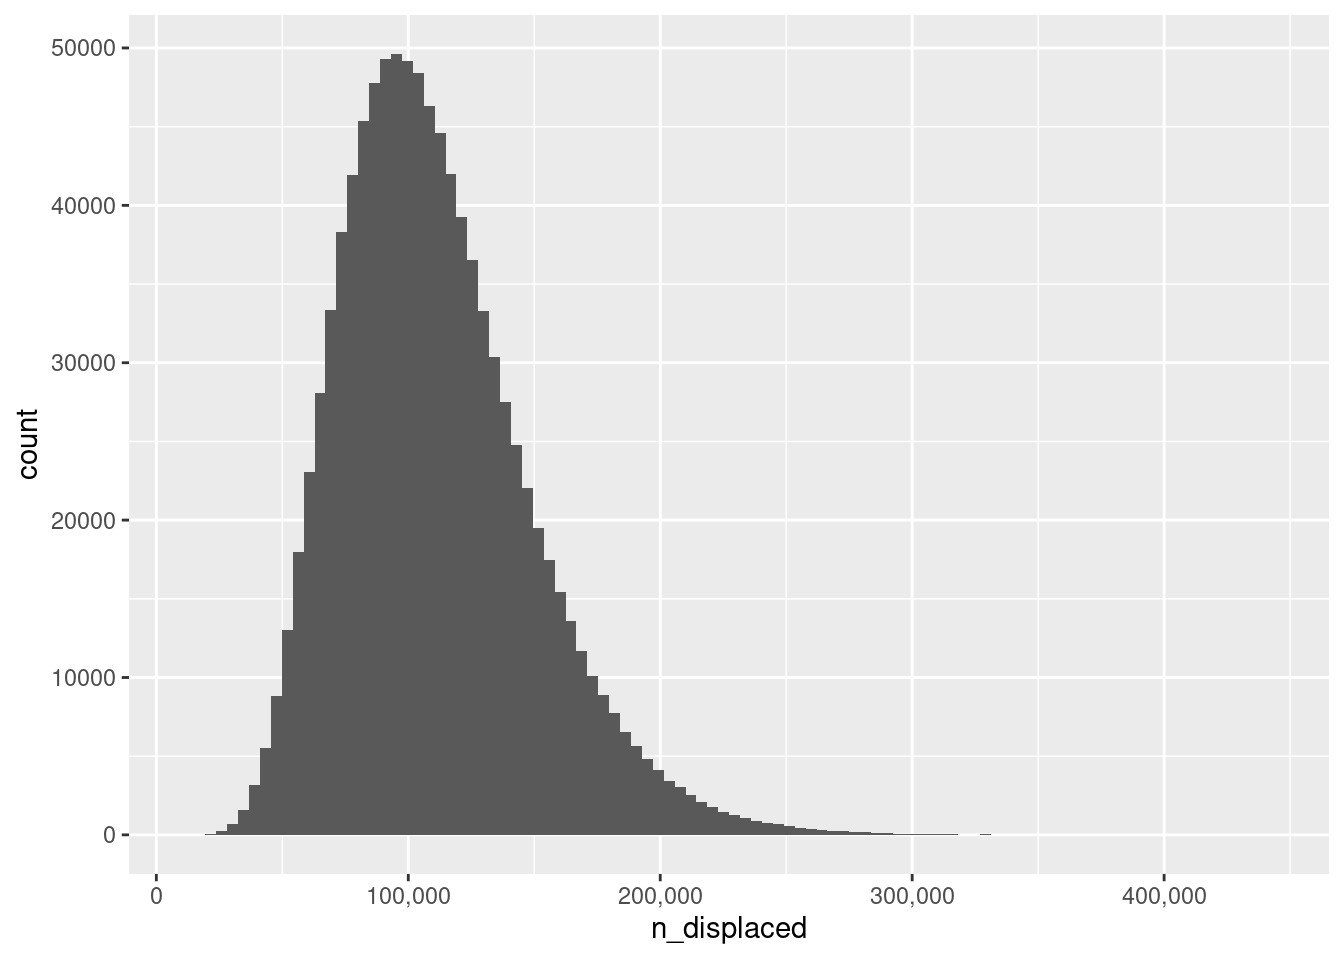
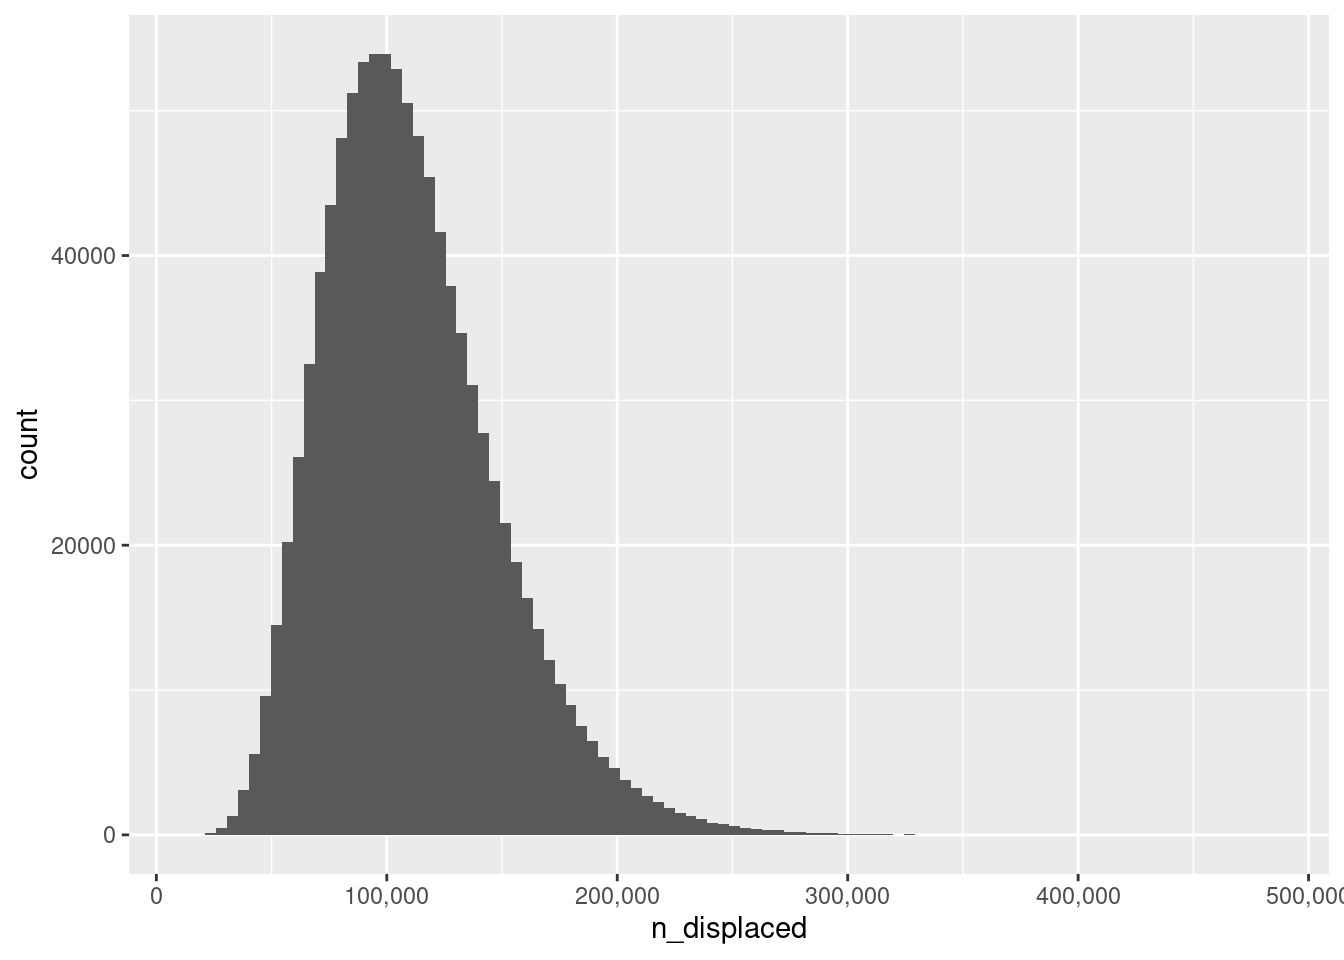
Fix silly brain fade (#106)
* fix brain fade

* uses better image name and adds alt-text

diff --git a/_site/posts/2023-06-15_dark-times/index.html b/_site/posts/2023-06-15_dark-times/index.html
@@ -264,16 +264,25 @@ n &amp; \sim &amp; \mbox{Binomial}(\theta, N = 166)
 <section id="what-proportion-of-the-us-population-is-transgender" class="level2">
 <h2 class="anchored" data-anchor-id="what-proportion-of-the-us-population-is-transgender">What proportion of the US population is transgender?</h2>
 <p>For this we can use a relatively recent <a href="https://williamsinstitute.law.ucla.edu/publications/trans-adults-united-states">survey by the Williams Institute</a>. The webpage provides point estimates in a digestible form, but Tables 4 and A4 of the associated <a href="https://williamsinstitute.law.ucla.edu/wp-content/uploads/Trans-Pop-Update-Jun-2022.pdf">pdf report</a> includes a 95% credible interval that suggests the adult transgender population in the United States (where again age 18+ is used as the cutoff) is somewhere between 816,644 and 1,964,330 people. Or, to express it as a percentage, somewhere between 0.32% and 0.77% of the US adult population of 255,201,250 persons identifies as transgender (the point estimate is 0.52%).</p>
-<p>In my ideal world I’d have access to the actual posterior distribution from the Williams Institute modelling, but alas I do not. However, since this is intended as a back-of-the-envelope style calculation, I’ll again try to make some sensible assumptions. In most situations I’d be willing to assume that the posterior is approximately normal, but that doesn’t work here because the percentages are too close to zero. Instead what I’ll do is use a beta distribution and choose parameters that ensure the relevant quantiles approximately mirror the numbers from the Williams Institute study:</p>
+<p>In my ideal world I’d have access to the actual posterior distribution from the Williams Institute modelling, but alas I do not. However, since this is intended as a back-of-the-envelope style calculation, I’ll again try to make some sensible assumptions. In most situations I’d be willing to assume that the posterior is approximately normal, but that doesn’t work here because the percentages are too close to zero. Instead what I’ll do is use a beta distribution and choose parameters that ensure the relevant quantiles approximately mirror the numbers from the Williams Institute study:<a href="#fn3" class="footnote-ref" id="fnref3" role="doc-noteref"><sup>3</sup></a></p>
 <div class="cell">
-<div class="sourceCode cell-code" id="cb3"><pre class="sourceCode r code-with-copy"><code class="sourceCode r"><span id="cb3-1"><a href="#cb3-1" aria-hidden="true" tabindex="-1"></a><span class="fu">quantile</span>(</span>
-<span id="cb3-2"><a href="#cb3-2" aria-hidden="true" tabindex="-1"></a>  <span class="at">x =</span> <span class="fu">rbeta</span>(<span class="dv">100000</span>, <span class="at">shape1 =</span> <span class="fl">20.3</span>, <span class="at">shape2 =</span> <span class="dv">3880</span>), </span>
-<span id="cb3-3"><a href="#cb3-3" aria-hidden="true" tabindex="-1"></a>  <span class="at">probs =</span> <span class="fu">c</span>(.<span class="dv">025</span>, .<span class="dv">5</span>, .<span class="dv">975</span>)</span>
-<span id="cb3-4"><a href="#cb3-4" aria-hidden="true" tabindex="-1"></a>)</span></code><button title="Copy to Clipboard" class="code-copy-button"><i class="bi"></i></button></pre></div>
+<div class="sourceCode cell-code" id="cb3"><pre class="sourceCode r code-with-copy"><code class="sourceCode r"><span id="cb3-1"><a href="#cb3-1" aria-hidden="true" tabindex="-1"></a><span class="fu">qbeta</span>(<span class="fu">c</span>(.<span class="dv">025</span>, .<span class="dv">5</span>, .<span class="dv">975</span>), <span class="fl">20.65</span>, <span class="fl">3922.84</span>)</span></code><button title="Copy to Clipboard" class="code-copy-button"><i class="bi"></i></button></pre></div>
 <div class="cell-output cell-output-stdout">
-<pre><code>       2.5%         50%       97.5% 
-0.003193342 0.005125918 0.007695911 </code></pre>
+<pre><code>[1] 0.003230431 0.005153068 0.007716206</code></pre>
 </div>
+</div>
+<div class="cell">
+<details>
+<summary>Parameter estimation code</summary>
+<div class="sourceCode cell-code" id="cb5"><pre class="sourceCode r code-with-copy"><code class="sourceCode r"><span id="cb5-1"><a href="#cb5-1" aria-hidden="true" tabindex="-1"></a><span class="fu">optim</span>(</span>
+<span id="cb5-2"><a href="#cb5-2" aria-hidden="true" tabindex="-1"></a>  <span class="at">par =</span> <span class="fu">c</span>(<span class="fl">20.3</span>, <span class="dv">3800</span>), <span class="co"># the values I hand tuned originally</span></span>
+<span id="cb5-3"><a href="#cb5-3" aria-hidden="true" tabindex="-1"></a>  <span class="at">fn =</span> \(par) {</span>
+<span id="cb5-4"><a href="#cb5-4" aria-hidden="true" tabindex="-1"></a>    prd <span class="ot">&lt;-</span> <span class="fu">qbeta</span>(<span class="fu">c</span>(.<span class="dv">025</span>, .<span class="dv">5</span>, .<span class="dv">975</span>), par[<span class="dv">1</span>], par[<span class="dv">2</span>])</span>
+<span id="cb5-5"><a href="#cb5-5" aria-hidden="true" tabindex="-1"></a>    obs <span class="ot">&lt;-</span> <span class="fu">c</span>(.<span class="dv">0032</span>, .<span class="dv">0052</span>, .<span class="dv">0077</span>)</span>
+<span id="cb5-6"><a href="#cb5-6" aria-hidden="true" tabindex="-1"></a>    <span class="fu">sum</span>((obs <span class="sc">-</span> prd)<span class="sc">^</span><span class="dv">2</span>)</span>
+<span id="cb5-7"><a href="#cb5-7" aria-hidden="true" tabindex="-1"></a>  }</span>
+<span id="cb5-8"><a href="#cb5-8" aria-hidden="true" tabindex="-1"></a>)</span></code><button title="Copy to Clipboard" class="code-copy-button"><i class="bi"></i></button></pre></div>
+</details>
 </div>
 <p>It’s awfully crude, but it works: the 95% equal-tail intervals that you’d get if this were the real posterior match the numbers reported by the Williams Institute, the distribution is bounded appropriately, and the point estimate (in this case the median) is pretty decent too. Good enough for the back of an envelope calculation I’d say.</p>
 </section>
@@ -281,40 +290,40 @@ n &amp; \sim &amp; \mbox{Binomial}(\theta, N = 166)
 <h2 class="anchored" data-anchor-id="estimating-the-number-of-displaced-persons">Estimating the number of displaced persons</h2>
 <p>Okay, now I have some (slightly crude) posterior densities to express what we know about (a) the proportion of adults in the United States are transgender, and (b) the proportion of transgender adults in the United States that have been displaced courtesy of the anti-trans legislation sweeping the nation. Again using the numbers from the Williams Institute study as the basis for the calculation, I’ll assume that the adult population of the US is approximately 255,201,250 persons. Now, I personally don’t know how to convolve two beta distributions analytically, but it’s not even slightly hard to do numerically:</p>
 <div class="cell">
-<div class="sourceCode cell-code" id="cb5"><pre class="sourceCode r code-with-copy"><code class="sourceCode r"><span id="cb5-1"><a href="#cb5-1" aria-hidden="true" tabindex="-1"></a>sim <span class="ot">&lt;-</span> tibble<span class="sc">::</span><span class="fu">tibble</span>(</span>
-<span id="cb5-2"><a href="#cb5-2" aria-hidden="true" tabindex="-1"></a> <span class="at">n_adults =</span> <span class="dv">255201250</span>,</span>
-<span id="cb5-3"><a href="#cb5-3" aria-hidden="true" tabindex="-1"></a> <span class="at">prop_trans =</span> <span class="fu">rbeta</span>(<span class="dv">1000000</span>, <span class="at">shape1 =</span> <span class="fl">20.3</span>, <span class="at">shape2 =</span> <span class="dv">3880</span>),</span>
-<span id="cb5-4"><a href="#cb5-4" aria-hidden="true" tabindex="-1"></a> <span class="at">prop_displaced =</span> <span class="fu">rbeta</span>(<span class="dv">1000000</span>, <span class="at">shape1 =</span> <span class="dv">14</span>, <span class="at">shape2 =</span> <span class="dv">154</span>),</span>
-<span id="cb5-5"><a href="#cb5-5" aria-hidden="true" tabindex="-1"></a> <span class="at">n_displaced =</span> n_adults <span class="sc">*</span> prop_trans <span class="sc">*</span> prop_displaced</span>
-<span id="cb5-6"><a href="#cb5-6" aria-hidden="true" tabindex="-1"></a>)</span></code><button title="Copy to Clipboard" class="code-copy-button"><i class="bi"></i></button></pre></div>
+<div class="sourceCode cell-code" id="cb6"><pre class="sourceCode r code-with-copy"><code class="sourceCode r"><span id="cb6-1"><a href="#cb6-1" aria-hidden="true" tabindex="-1"></a>sim <span class="ot">&lt;-</span> tibble<span class="sc">::</span><span class="fu">tibble</span>(</span>
+<span id="cb6-2"><a href="#cb6-2" aria-hidden="true" tabindex="-1"></a> <span class="at">n_adults =</span> <span class="dv">255201250</span>,</span>
+<span id="cb6-3"><a href="#cb6-3" aria-hidden="true" tabindex="-1"></a> <span class="at">prop_trans =</span> <span class="fu">rbeta</span>(<span class="dv">1000000</span>, <span class="at">shape1 =</span> <span class="fl">20.65</span>, <span class="at">shape2 =</span>  <span class="fl">3922.84</span>),</span>
+<span id="cb6-4"><a href="#cb6-4" aria-hidden="true" tabindex="-1"></a> <span class="at">prop_displaced =</span> <span class="fu">rbeta</span>(<span class="dv">1000000</span>, <span class="at">shape1 =</span> <span class="dv">14</span>, <span class="at">shape2 =</span> <span class="dv">154</span>),</span>
+<span id="cb6-5"><a href="#cb6-5" aria-hidden="true" tabindex="-1"></a> <span class="at">n_displaced =</span> n_adults <span class="sc">*</span> prop_trans <span class="sc">*</span> prop_displaced</span>
+<span id="cb6-6"><a href="#cb6-6" aria-hidden="true" tabindex="-1"></a>)</span></code><button title="Copy to Clipboard" class="code-copy-button"><i class="bi"></i></button></pre></div>
 </div>
 <p>Having done so, we can plot a distribution reflecting what we know about the number of transgender adults who have been displaced:</p>
 <div class="cell">
-<div class="sourceCode cell-code" id="cb6"><pre class="sourceCode r code-with-copy"><code class="sourceCode r"><span id="cb6-1"><a href="#cb6-1" aria-hidden="true" tabindex="-1"></a><span class="fu">library</span>(ggplot2)</span>
-<span id="cb6-2"><a href="#cb6-2" aria-hidden="true" tabindex="-1"></a><span class="fu">ggplot</span>(sim, <span class="fu">aes</span>(n_displaced)) <span class="sc">+</span> </span>
-<span id="cb6-3"><a href="#cb6-3" aria-hidden="true" tabindex="-1"></a>  <span class="fu">geom_histogram</span>(<span class="at">bins =</span> <span class="dv">100</span>) <span class="sc">+</span> </span>
-<span id="cb6-4"><a href="#cb6-4" aria-hidden="true" tabindex="-1"></a>  <span class="fu">scale_x_continuous</span>(<span class="at">labels =</span> scales<span class="sc">::</span><span class="fu">label_comma</span>())</span></code><button title="Copy to Clipboard" class="code-copy-button"><i class="bi"></i></button></pre></div>
+<div class="sourceCode cell-code" id="cb7"><pre class="sourceCode r code-with-copy"><code class="sourceCode r"><span id="cb7-1"><a href="#cb7-1" aria-hidden="true" tabindex="-1"></a><span class="fu">library</span>(ggplot2)</span>
+<span id="cb7-2"><a href="#cb7-2" aria-hidden="true" tabindex="-1"></a><span class="fu">ggplot</span>(sim, <span class="fu">aes</span>(n_displaced)) <span class="sc">+</span> </span>
+<span id="cb7-3"><a href="#cb7-3" aria-hidden="true" tabindex="-1"></a>  <span class="fu">geom_histogram</span>(<span class="at">bins =</span> <span class="dv">100</span>) <span class="sc">+</span> </span>
+<span id="cb7-4"><a href="#cb7-4" aria-hidden="true" tabindex="-1"></a>  <span class="fu">scale_x_continuous</span>(<span class="at">labels =</span> scales<span class="sc">::</span><span class="fu">label_comma</span>())</span></code><button title="Copy to Clipboard" class="code-copy-button"><i class="bi"></i></button></pre></div>
 <div class="cell-output-display">
-<p><img src="index_files/figure-html/unnamed-chunk-5-1.png" class="img-fluid" width="672"></p>
+<p><img src="index_files/figure-html/displaced-trans-persons-histogram-1.png" class="img-fluid" alt="A histogram representing the uncertainty around the number of internally diplaced trans people within the United State. The plot shows a distribution with a peak at around 100000 people. The vast bulk of the distribution is between 50000 and 200000 people. There is a very slight positive skewness to the distribution." width="672"></p>
 </div>
 </div>
 <p>So… how many transgender people within the United States do we estimate have already been forced from their homes as a consequence of the dire political climate there? Here’s the headline number:</p>
 <div class="cell">
-<div class="sourceCode cell-code" id="cb7"><pre class="sourceCode r code-with-copy"><code class="sourceCode r"><span id="cb7-1"><a href="#cb7-1" aria-hidden="true" tabindex="-1"></a><span class="fu">mean</span>(sim<span class="sc">$</span>n_displaced)</span></code><button title="Copy to Clipboard" class="code-copy-button"><i class="bi"></i></button></pre></div>
+<div class="sourceCode cell-code" id="cb8"><pre class="sourceCode r code-with-copy"><code class="sourceCode r"><span id="cb8-1"><a href="#cb8-1" aria-hidden="true" tabindex="-1"></a><span class="fu">mean</span>(sim<span class="sc">$</span>n_displaced)</span></code><button title="Copy to Clipboard" class="code-copy-button"><i class="bi"></i></button></pre></div>
 <div class="cell-output cell-output-stdout">
-<pre><code>[1] 110693.9</code></pre>
+<pre><code>[1] 111379.2</code></pre>
 </div>
 </div>
 <p>About 111000 people. That’s… a lot, and that number doesn’t even include the families of transgender adults, or transgender children, or the families of transgender children. I mean, there aren’t many of us. We are a small population, and this is a humanitarian disaster for transgender people in the United States. It’s something that has been building for several years now, and every trans person knows it.</p>
 <p>The precise scale of the disaster isn’t entirely clear from the data. The point estimate of 111k people could be out by a factor of 2 in either direction, which you can see by calculating the 95% credible interval:</p>
 <div class="cell">
-<div class="sourceCode cell-code" id="cb9"><pre class="sourceCode r code-with-copy"><code class="sourceCode r"><span id="cb9-1"><a href="#cb9-1" aria-hidden="true" tabindex="-1"></a><span class="fu">quantile</span>(sim<span class="sc">$</span>n_displaced, <span class="fu">c</span>(.<span class="dv">025</span>, .<span class="dv">975</span>))</span></code><button title="Copy to Clipboard" class="code-copy-button"><i class="bi"></i></button></pre></div>
+<div class="sourceCode cell-code" id="cb10"><pre class="sourceCode r code-with-copy"><code class="sourceCode r"><span id="cb10-1"><a href="#cb10-1" aria-hidden="true" tabindex="-1"></a><span class="fu">quantile</span>(sim<span class="sc">$</span>n_displaced, <span class="fu">c</span>(.<span class="dv">025</span>, .<span class="dv">975</span>))</span></code><button title="Copy to Clipboard" class="code-copy-button"><i class="bi"></i></button></pre></div>
 <div class="cell-output cell-output-stdout">
 <pre><code>     2.5%     97.5% 
- 51674.64 198492.39 </code></pre>
+ 51998.81 199427.60 </code></pre>
 </div>
 </div>
-<p>Between 52000 and 198000 transgender adults have been displaced. No matter how you look at it, a <em>lot</em> of people have been forced to flee already.</p>
+<p>Between 52000 and 199000 transgender adults have been displaced. No matter how you look at it, a <em>lot</em> of people have been forced to flee already.</p>
 <p>At some point the rest of the American population will start to actually <em>do</em> something about this, right? I mean, something <strong>other</strong> than make it worse or waste your time and effort by <a href="https://statmodeling.stat.columbia.edu/2021/07/18/what-is-a-woman/">whining about the threat to society posed by trans women in sports and asking “what is a woman?”</a>.</p>
 
 
@@ -326,6 +335,7 @@ n &amp; \sim &amp; \mbox{Binomial}(\theta, N = 166)
 <ol>
 <li id="fn1"><p>Huge thank you to Martin Modrák for noticing the mistake in which I’d originally specified a Beta(14, 167) distribution here like an idiot.<a href="#fnref1" class="footnote-back" role="doc-backlink">↩</a></p></li>
 <li id="fn2"><p>You could do the same thing in a frequentist way, of course, but that would be no less crude than this Bayesian method, and anyway I already did that and found essentially the same answer. This isn’t a situation where Bayes-vs-orthodox matters very much. In the real world, the nuance is entirely around the SRS assumption and the accuracy of the responses. In that respect I’m of course oversimplifying, but let’s be honest… how much do you <em>really</em> think this would change things? Be honest.<a href="#fnref2" class="footnote-back" role="doc-backlink">↩</a></p></li>
+<li id="fn3"><p>The original version of this post used hand tuned parameter values because I had a brain fade and forgot that it’s absurdly easy to find least squares estimates with <code>optim()</code>.<a href="#fnref3" class="footnote-back" role="doc-backlink">↩</a></p></li>
 </ol>
 </section><section class="quarto-appendix-contents"><h2 class="anchored quarto-appendix-heading">Reuse</h2><div id="quarto-reuse" class="quarto-appendix-contents"><div><a rel="license" href="https://creativecommons.org/licenses/by/4.0/">https://creativecommons.org/licenses/by/4.0/</a></div></div></section><section class="quarto-appendix-contents"><h2 class="anchored quarto-appendix-heading">Citation</h2><div><div class="quarto-appendix-secondary-label">BibTeX citation:</div><pre class="sourceCode code-with-copy quarto-appendix-bibtex"><code class="sourceCode bibtex">@online{navarro2023,
   author = {Navarro, Danielle},

diff --git a/_site/index.html b/_site/index.html
@@ -188,7 +188,7 @@ ul.task-list li input[type="checkbox"] {
 
 <div class="quarto-listing quarto-listing-container-grid" id="listing-listing">
 <div class="list grid quarto-listing-cols-3">
-<div class="g-col-1" data-index="0" data-categories="R,Statistics" data-listing-date-sort="1686751200000" data-listing-file-modified-sort="1686830071988" data-listing-date-modified-sort="NaN" data-listing-reading-time-sort="8">
+<div class="g-col-1" data-index="0" data-categories="R,Statistics" data-listing-date-sort="1686751200000" data-listing-file-modified-sort="1686868064305" data-listing-date-modified-sort="NaN" data-listing-reading-time-sort="9">
 <a href="./posts/2023-06-15_dark-times/index.html" class="quarto-grid-link">
 <div class="quarto-grid-item card h-100 card-left">
 <p class="card-img-top">
